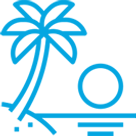
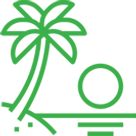
Add files via upload

Changed region(s): [[0.0, 0.0, 1.0, 1.0], [0.0882, 0.9118, 0.1471, 0.9706]]

diff --git a/css/style.css b/css/style.css
@@ -16,7 +16,7 @@ a{
 .home-btn a{
     font-family: 'Poppins', sans-serif;
     font-weight: 500;
-    background: #04a6e1;
+    background: #3AAF4A;
     color: #fff;
     padding: 10px 15px;
     border-radius: 25px;
@@ -52,7 +52,7 @@ a{
     position: relative;
     width: 100%;
     height: 160px;
-    background: #04a6e1;
+    background: #3AAF4A;
     border-top-left-radius: 20px;
     border-top-right-radius: 20px;
 }
@@ -214,7 +214,7 @@ a{
 }
 .module-icon{
     background: #fff;
-    border: 1px solid #04a6e1;
+    border: 1px solid #3AAF4A;
     border-top-left-radius: 20px;
     border-top-right-radius: 20px;
     padding: 30px 60px;
@@ -225,8 +225,8 @@ a{
     height: 75px;
 }
 .module-text{
-    background: #04a6e1;
-    border: 1px solid #04a6e1;
+    background: #3AAF4A;
+    border: 1px solid #3AAF4A;
     border-bottom-left-radius: 20px;
     border-bottom-right-radius: 20px;
 }
@@ -252,8 +252,8 @@ a{
     height: 120px;
     line-height: 55px;
     margin: 15px auto;
-    background: #04a6e1;
-    border: 1px solid #04a6e1;
+    background: #3AAF4A;
+    border: 1px solid #3AAF4A;
     border-radius: 50%;
     padding: 30px;
     text-align: center;
@@ -264,7 +264,7 @@ a{
     left: -11px;
     width: 140px;
     height: 140px;
-    border: 1px solid #04a6e1;
+    border: 1px solid #3AAF4A;
     border-radius: 50%;
 }
 .inner-module-box .module-icon img{
@@ -294,8 +294,8 @@ a{
 }
 .horiz-inner-module-box .module-icon{
     width: 35%;
-    background: #04a6e1;
-    border: 1px solid #04a6e1;
+    background: #3AAF4A;
+    border: 1px solid #3AAF4A;
     padding: 20px;
     text-align: center;
     border-radius: 20px 0 0 20px;
@@ -312,7 +312,7 @@ a{
 .horiz-inner-module-box .module-text{
     width: 65%;
     background: #fff;
-    border: 1px solid #04a6e1;
+    border: 1px solid #3AAF4A;
     border-radius: 0 20px 20px 0;
     padding: 30px 60px;
     text-align: center;
@@ -331,7 +331,7 @@ a{
     text-decoration: underline;
 }
 .announcement-links .announcement a{
-    color: #04a6e1 !important;
+    color: #3AAF4A !important;
     display: inline-block;
     color: #2c2a25;
     margin: 20px 0;
